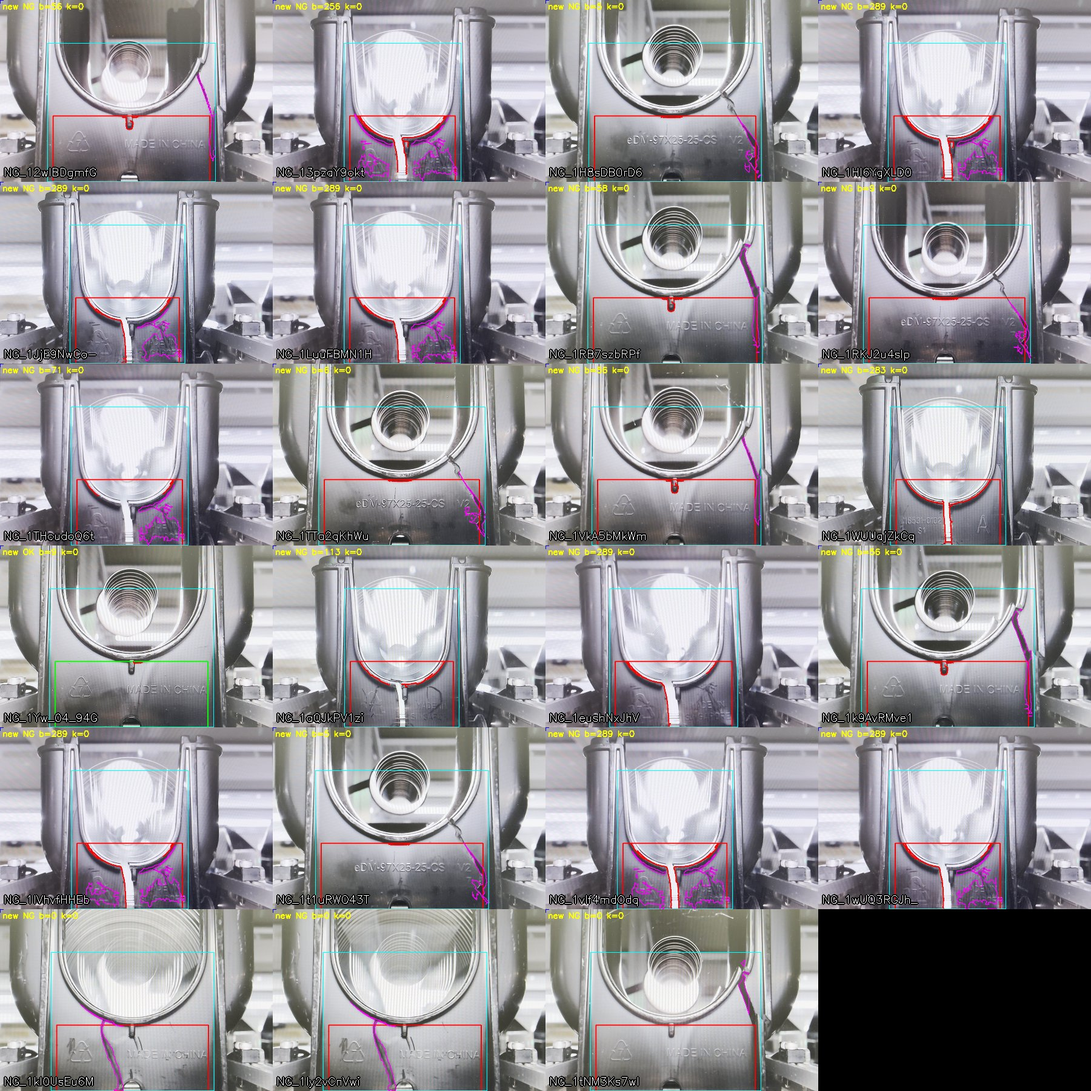
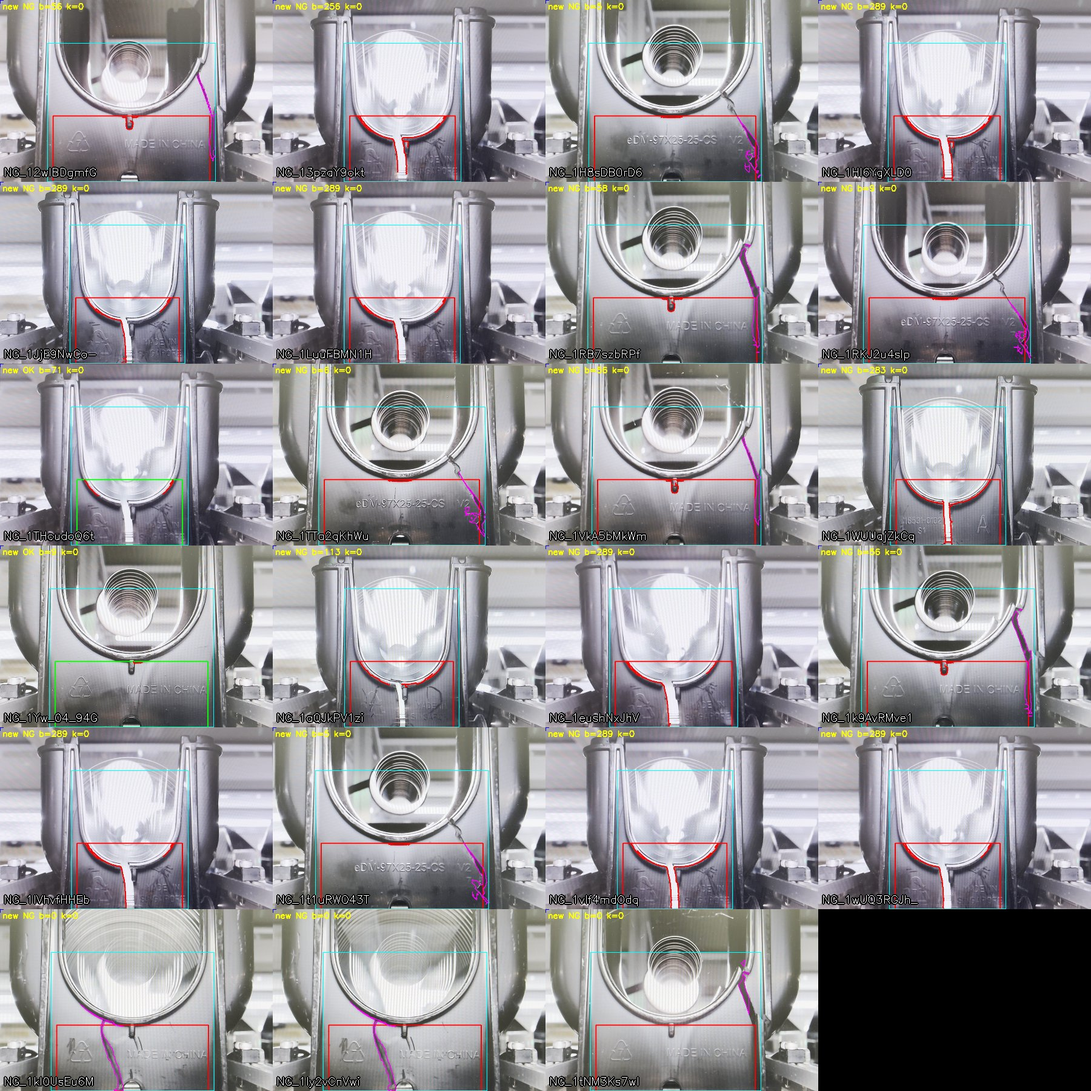
黒ワレ: 刻印の文字・ロゴを除外（細長さと、線が囲む穴の割合）
Claude-Session: https://claude.ai/code/session_01AGHVZAzegJVfdU4wL5nFmJ

diff --git a/legacy/black_crack_v2.py b/legacy/black_crack_v2.py
@@ -46,6 +46,8 @@ BLACK_V2_PARAMS = {
     "black_follow_gap": 12,       # 暗くない所がこれ以上続いたら、つながっていないとみなす [px]
     # 割れとみなす条件
     "black_min_len": 150,         # 線のまとまりの長さの下限 [px]
+    "black_line_ratio": 0.6,      # 細長さ（短い方向の広がり ÷ 長い方向の広がり）がこれより大きければ塊（刻印・ロゴ）
+    "black_hole_ratio": 0.1,      # 線が囲む穴の面積が、線の面積のこの割合より大きければ刻印・ロゴ
     "black_far_dist": 30,         # 縁取りからこれより離れた部分を「縁から離れた部分」とする [px]
     "black_far_len": 100,         # 縁から離れた部分・一本の線として続く部分の長さの下限 [px]
     "black_edge_tol": 12,         # 外縁からこの距離以内に来ていれば「外縁に届いた」 [px]
@@ -239,6 +241,15 @@ def find_crossing_cracks(ary, binary, mask, roi_lr, gate_x, top_row, p):
         # 細かい汚れや刻印が集まっただけのまとまりは割れではない。一本の線として十分長い部分があること
         sn, _, sst, _ = cv2.connectedComponentsWithStats(comp.astype(np.uint8))
         if max(np.hypot(sst[j, cv2.CC_STAT_WIDTH], sst[j, cv2.CC_STAT_HEIGHT]) for j in range(1, sn)) < p["black_far_len"]:
+            continue
+        # 刻印の文字やロゴを除く。割れは細長い線で、線が閉じて穴を作ることはほとんどない。
+        # 文字やロゴは塊（細長くない）か、線が閉じて穴がある（リサイクルマークの三角、A・D・O など）
+        ev = np.sort(np.linalg.eigvalsh(np.cov(np.c_[xs, ys].T.astype(float))))
+        if np.sqrt(max(ev[0], 0) / max(ev[1], 1e-6)) > p["black_line_ratio"]:   # 細長さ = 短い方向 ÷ 長い方向の広がり
+            continue
+        cs, hier = cv2.findContours(comp.astype(np.uint8), cv2.RETR_CCOMP, cv2.CHAIN_APPROX_SIMPLE)[-2:]
+        holes = sum(cv2.contourArea(c) for c, hh in zip(cs, hier[0]) if hh[3] >= 0) if hier is not None else 0
+        if holes > p["black_hole_ratio"] * comp.sum():
             continue
         # 内側の端が縁取りに届いているか（届いていなければ、暗い所をたどって届くか）
         if _touches_rim(comp, d_out, rim, p) or _follow_to_rim(comp, ary, d_out, rim, plate, p):
